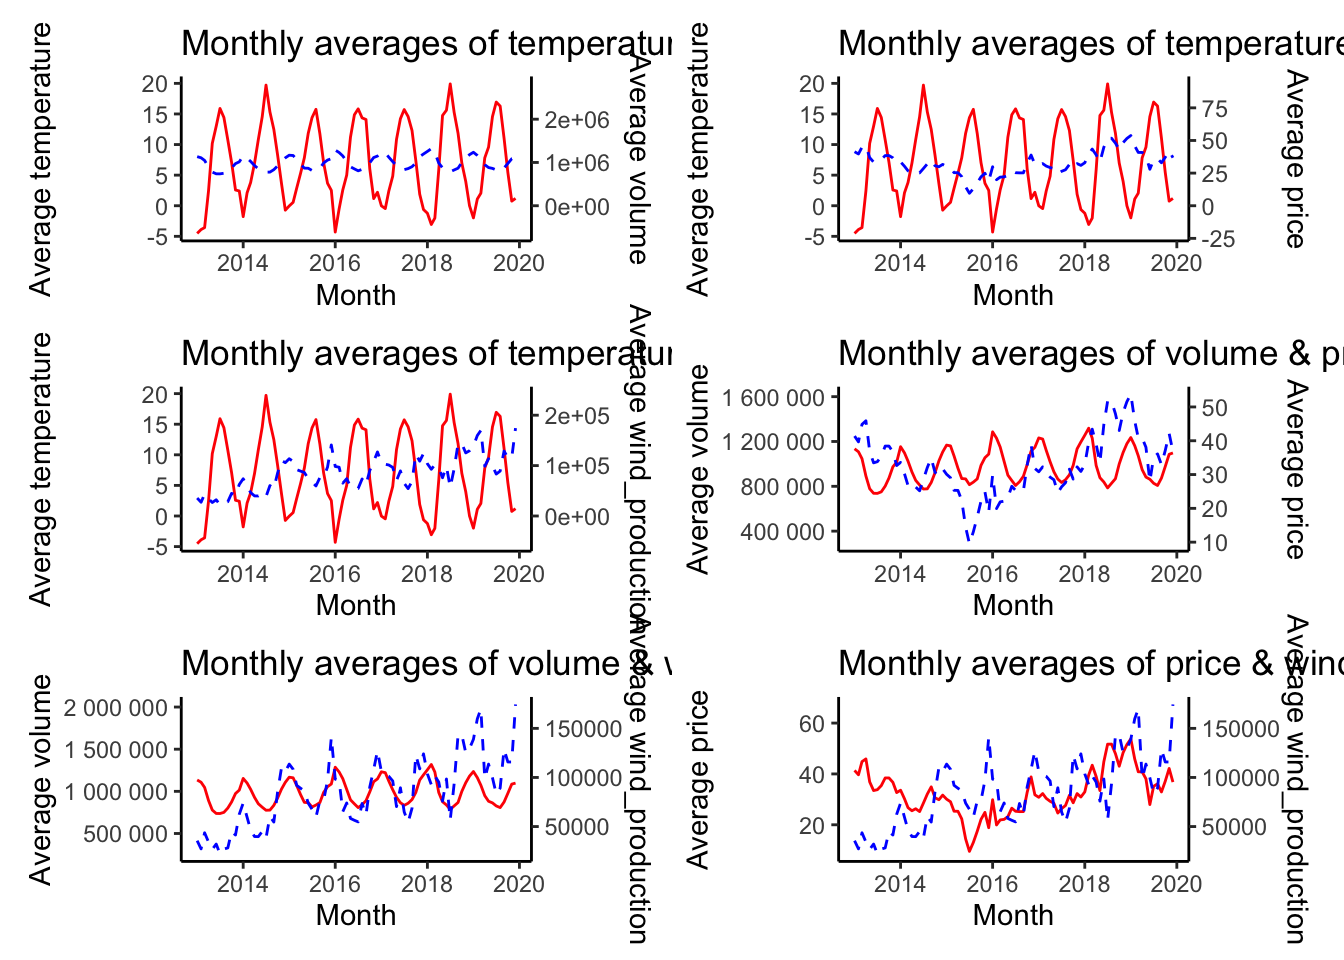
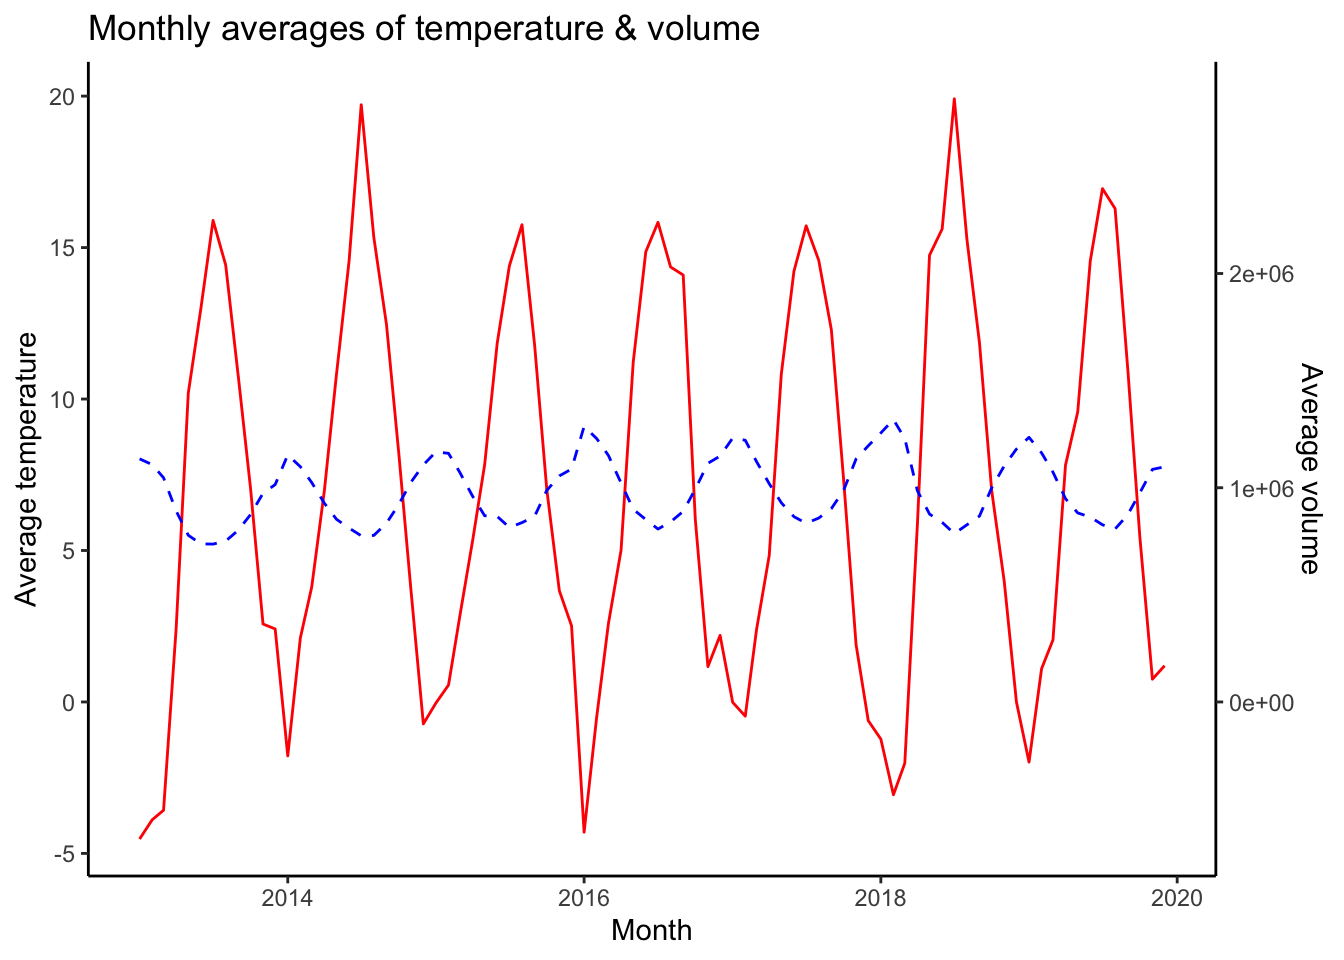
Commenting plots, updating html

diff --git a/Assignment2.html b/Assignment2.html
@@ -271,13 +271,21 @@ date  (1): date
 <span id="cb14-13"><a href="#cb14-13" aria-hidden="true" tabindex="-1"></a>  }</span>
 <span id="cb14-14"><a href="#cb14-14" aria-hidden="true" tabindex="-1"></a>}</span></code><button title="Copy to Clipboard" class="code-copy-button"><i class="bi"></i></button></pre></div>
 </div>
-<p>Comparing the four specified variables adds up to six comparison plots. Notice that to compare the variables, we have added a second axis to each plot since the variables have different scales. In some cases, like the temperature vs.&nbsp;volume plot, this has lead to some errors. Errors like this is easy to spot if you compare with the single variable plot. Despite the scaling errors we chose to include them since they visualize relationships between the variables.</p>
+<p>Comparing the four specified variables adds up to six comparison plots. We chose only to discuss the three most relevant, temperature vs.&nbsp;volume, price vs.&nbsp;volume, and price vs.&nbsp;wind_production. Notice that to compare the variables, we have added a second axis to each plot since the variables have different scales. In some cases, like the temperature vs.&nbsp;volume plot, this has lead to some errors. Errors like this is easy to spot if you compare with the single variable plot. Despite the scaling errors we chose to include them since they visualize relationships between the variables.</p>
+<p>The first plot we examine is the temperature vs.&nbsp;volume plot.</p>
 <div class="cell">
-<div class="sourceCode cell-code" id="cb15"><pre class="sourceCode r code-with-copy"><code class="sourceCode r"><span id="cb15-1"><a href="#cb15-1" aria-hidden="true" tabindex="-1"></a><span class="co"># Combine multi variable plots into a single plot</span></span>
-<span id="cb15-2"><a href="#cb15-2" aria-hidden="true" tabindex="-1"></a>combined_plot <span class="ot">&lt;-</span> <span class="fu">wrap_plots</span>(plot_list_multi, <span class="at">ncol =</span> <span class="dv">2</span>)</span>
-<span id="cb15-3"><a href="#cb15-3" aria-hidden="true" tabindex="-1"></a><span class="fu">print</span>(combined_plot)</span></code><button title="Copy to Clipboard" class="code-copy-button"><i class="bi"></i></button></pre></div>
+<div class="sourceCode cell-code" id="cb15"><pre class="sourceCode r code-with-copy"><code class="sourceCode r"><span id="cb15-1"><a href="#cb15-1" aria-hidden="true" tabindex="-1"></a><span class="co"># Compare temperature vs. volume</span></span>
+<span id="cb15-2"><a href="#cb15-2" aria-hidden="true" tabindex="-1"></a>plot_list_multi<span class="sc">$</span>temperature_vs_volume</span></code><button title="Copy to Clipboard" class="code-copy-button"><i class="bi"></i></button></pre></div>
 <div class="cell-output-display">
 <p><img src="Assignment2_files/figure-html/unnamed-chunk-11-1.png" class="img-fluid" width="672"></p>
+</div>
+</div>
+<p>Despite the errors in scaling, we notice that when temperatures increases, the volume decrease and vice versa.</p>
+<p>The second plot of interest is the volume vs.&nbsp;price plot.</p>
+<div class="cell">
+<div class="sourceCode cell-code" id="cb16"><pre class="sourceCode r code-with-copy"><code class="sourceCode r"><span id="cb16-1"><a href="#cb16-1" aria-hidden="true" tabindex="-1"></a>plot_list_multi<span class="sc">$</span>volume_vs_price</span></code><button title="Copy to Clipboard" class="code-copy-button"><i class="bi"></i></button></pre></div>
+<div class="cell-output-display">
+<p><img src="Assignment2_files/figure-html/unnamed-chunk-12-1.png" class="img-fluid" width="672"></p>
 </div>
 </div>
 </section>
